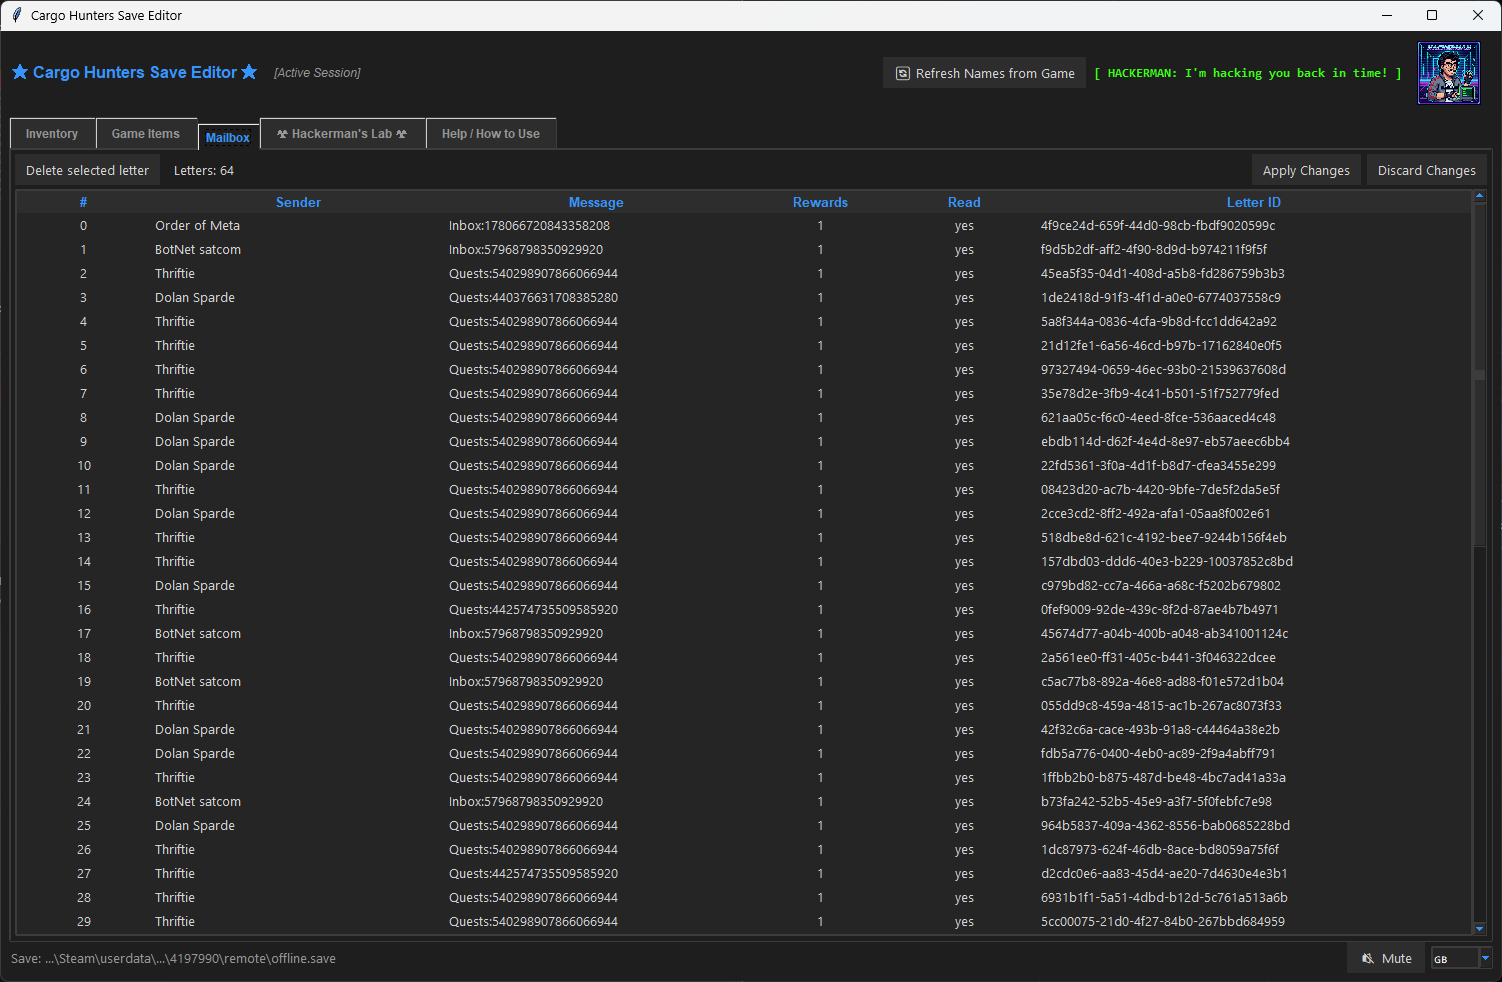
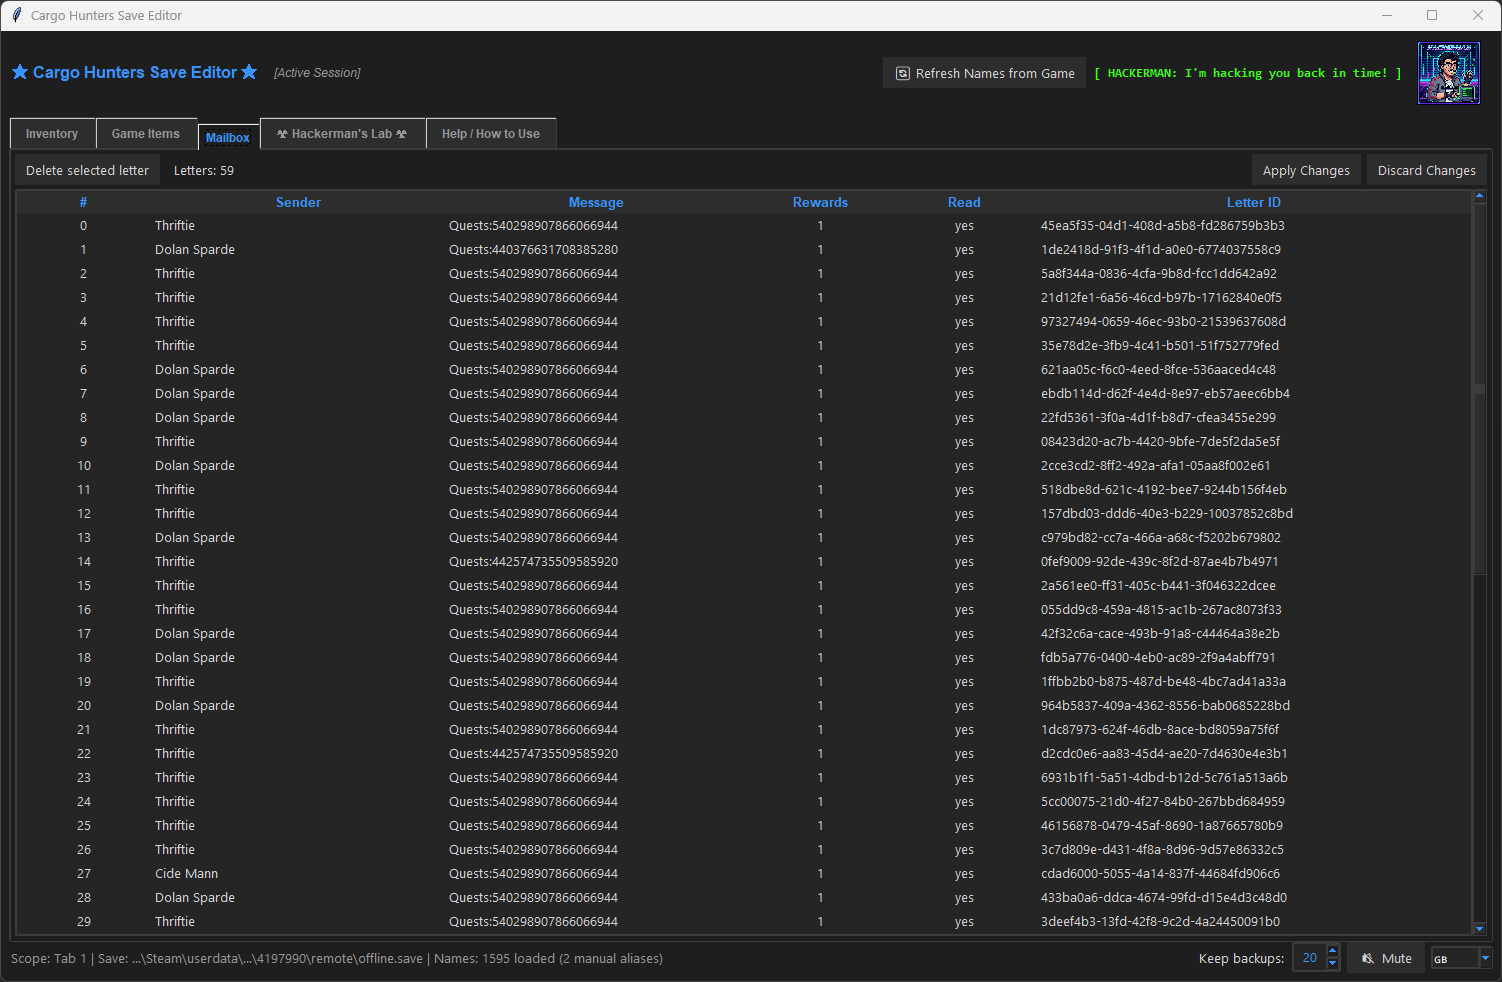
docs: refresh screenshots for the new character tab, add the counters view
Every shipped shot predated the data-driven caps: Hackerman's Lab still showed
the old cramped skill control, and all four tab pictures were stale at the
status bar, which now carries the backup retention field.

- Hackerman's Lab shows the level and XP ceilings beside their fields, unspent
  skill points, per-skill maxima as "6 / 6", and the MAX button
- Inventory expands a container for real instead of leaving the lazy-load
  placeholders visible as blank rows
- Counters gets a picture of its own; the trader dialog moves out of the grid,
  being a small window that never belonged beside a full-size one
- 05-offer-at-trader is untouched, that dialog's code did not change

Taken against a copy of a save, with the account path elided as before.

diff --git a/README.ru.md b/README.ru.md
@@ -29,9 +29,11 @@
 | --- | --- |
 | ![Каталог предметов](docs/screenshots/02-game-items.png) | ![Лаборатория Хакермана](docs/screenshots/03-hackermans-lab.png) |
 
-| Почта | Предложить у торговца |
+| Почта | Статистика |
 | --- | --- |
-| ![Почта](docs/screenshots/04-mailbox.png) | ![Предложить у торговца](docs/screenshots/05-offer-at-trader.png) |
+| ![Почта](docs/screenshots/04-mailbox.png) | ![Статистика](docs/screenshots/06-counters.png) |
+
+![Предложить у торговца](docs/screenshots/05-offer-at-trader.png)
 
 ---
 

diff --git a/README.md b/README.md
@@ -25,9 +25,11 @@ If you find this tool helpful and want to support its continued development:
 | --- | --- |
 | ![Game Items](docs/screenshots/02-game-items.png) | ![Hackerman's Lab](docs/screenshots/03-hackermans-lab.png) |
 
-| Mailbox | Offer at Trader |
+| Mailbox | Counters |
 | --- | --- |
-| ![Mailbox](docs/screenshots/04-mailbox.png) | ![Offer at Trader](docs/screenshots/05-offer-at-trader.png) |
+| ![Mailbox](docs/screenshots/04-mailbox.png) | ![Counters](docs/screenshots/06-counters.png) |
+
+![Offer at Trader](docs/screenshots/05-offer-at-trader.png)
 
 ---
 
